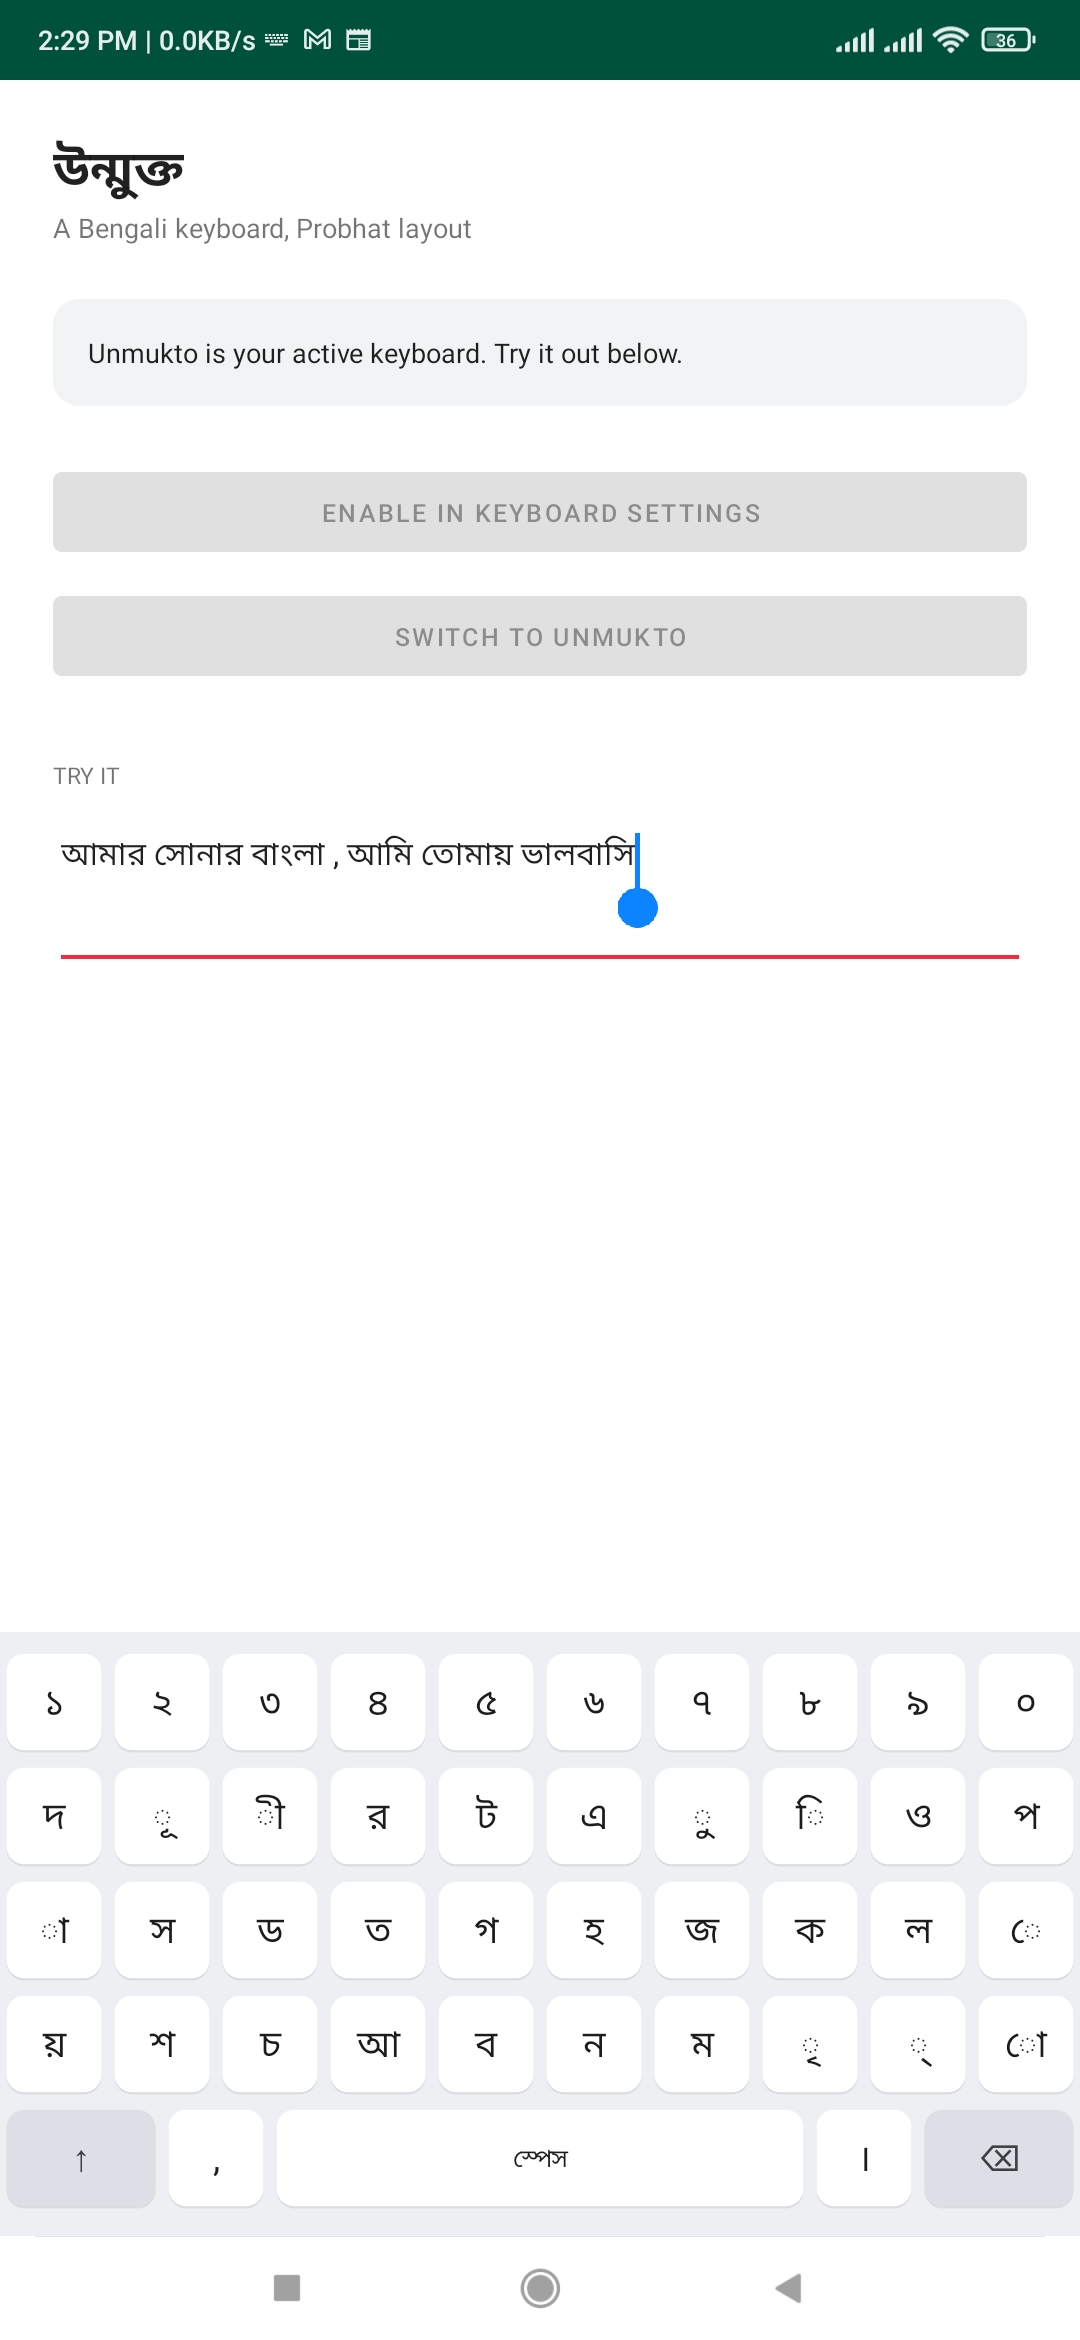
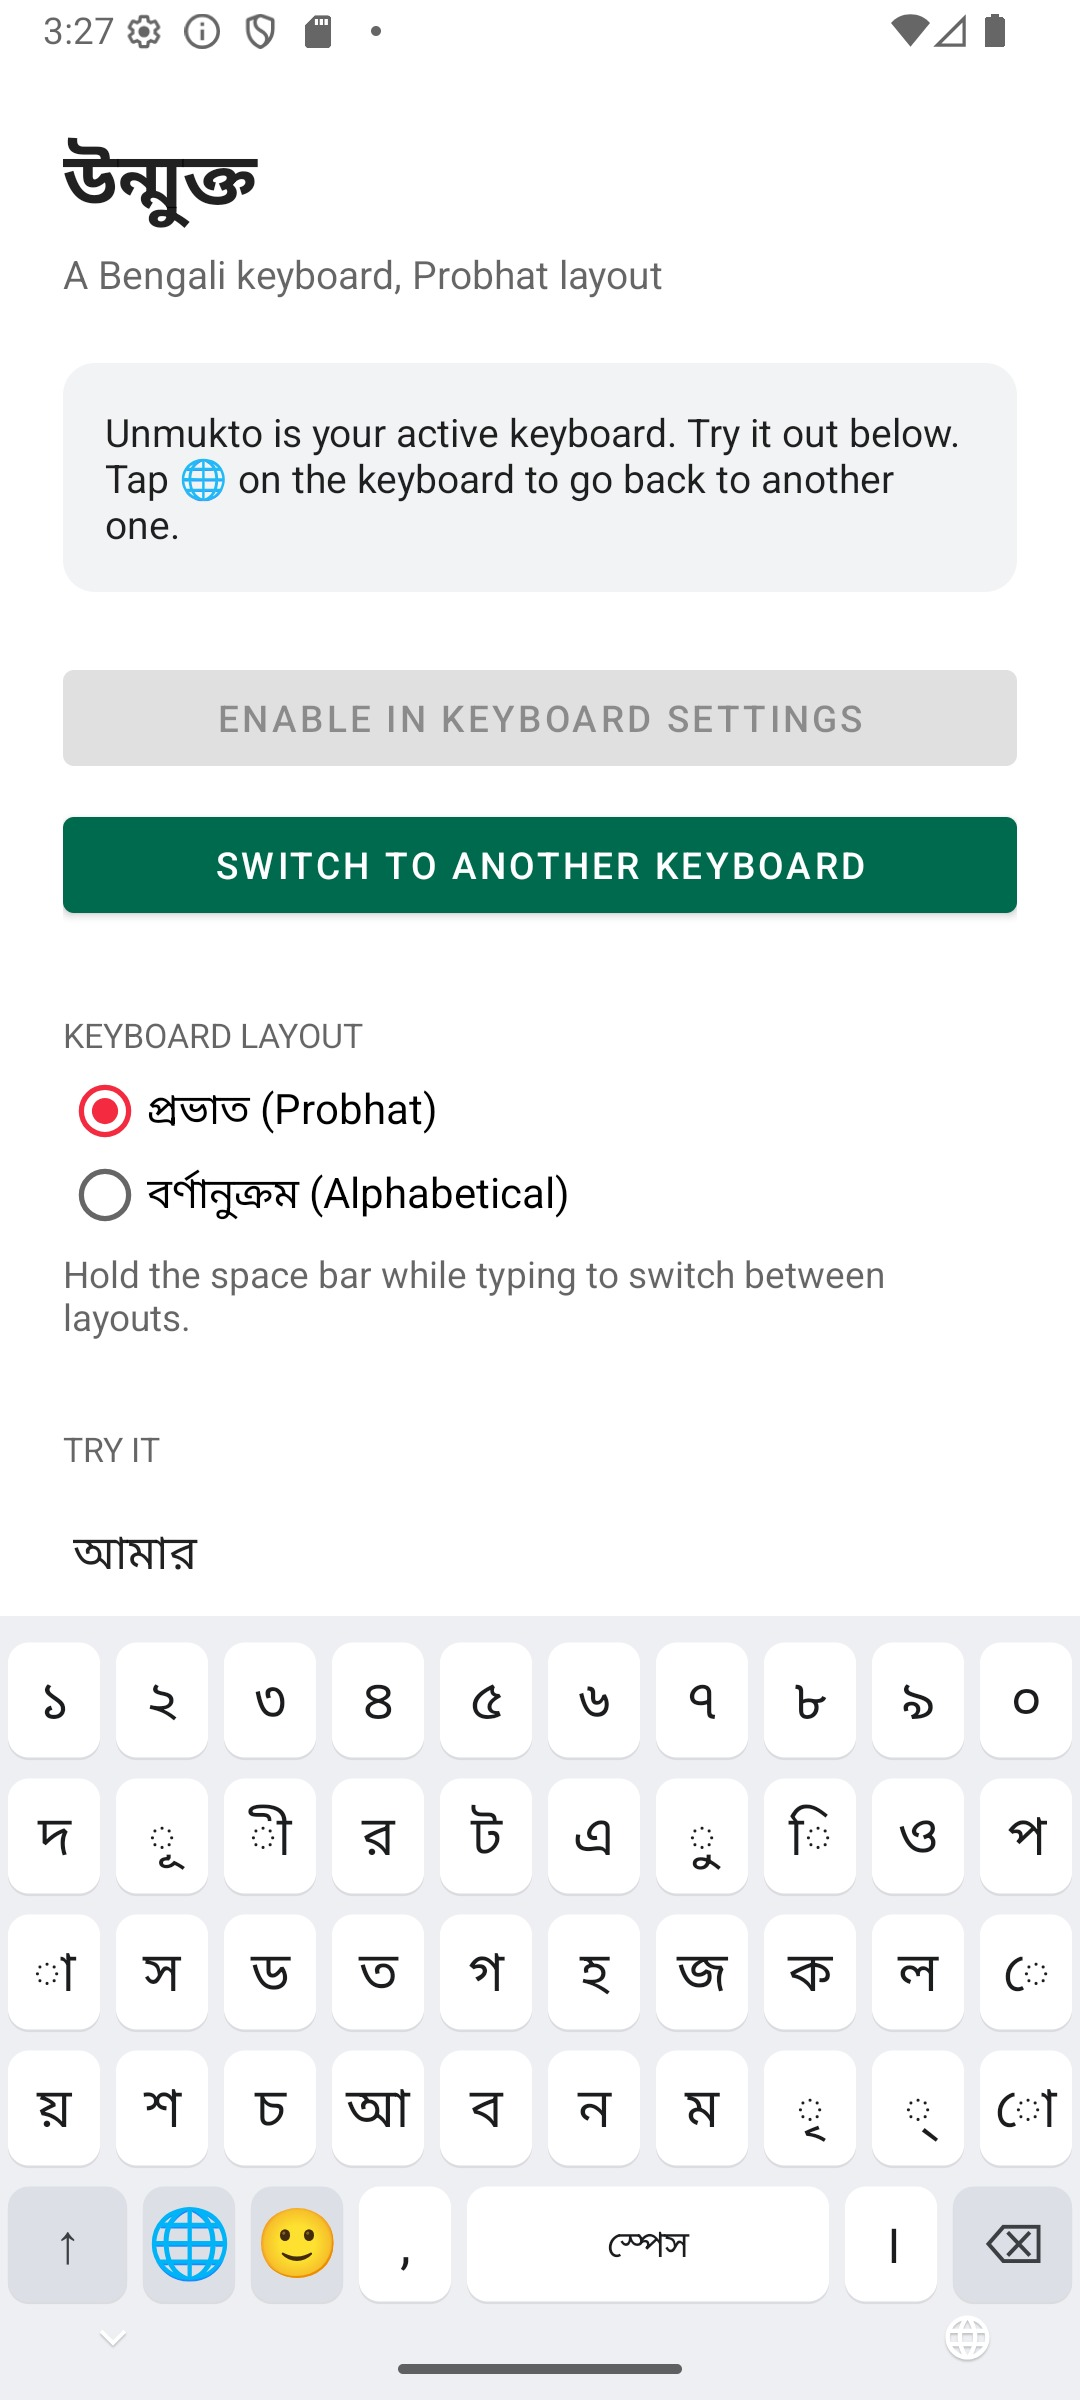
[docs]: refresh the screenshots for 1.5;
The old pair was taken on 2026-07-22, which predates the emoji panel, the
alphabetical layout and the key that switches back out to another
keyboard. They were also taken before the keyboard was told to keep clear
of the navigation bar, so the bottom row in them sits under the home
gesture -- the store was advertising a bug that is now fixed.

Six now, captured on an Android 16 emulator against versionCode 6: both
layouts, the shifted layer, the emoji panel, and two in dark mode. They
are the F-Droid listing as well, which reads this directory.

The README gains the second layout and the emoji panel in its one-line
description, which still said Probhat only.

diff --git a/README.md b/README.md
@@ -5,13 +5,18 @@
 [![Releases](https://img.shields.io/badge/Unmukto-Releases-black.svg?style=for-the-badge&logo=android)](https://github.com/maifeeulasad/unmukto/releases)
 [![License: GPL v3](https://img.shields.io/badge/License-GPLv3-blue.svg?style=for-the-badge)](LICENSE)
 
-Probhat layout, works entirely offline, and declares no Android permissions at all.
+Two Bengali layouts -- Probhat and one in alphabetical order -- plus an emoji panel.
+Works entirely offline, and declares no Android permissions at all.
 
-## Snaps (2026.07.22)
+## Snaps (1.5)
 
-Base layer             |  Shifted layer
-:-------------------------:|:-------------------------:
-![keyboard-1](https://raw.githubusercontent.com/maifeeulasad/unmukto/gh-pages/snaps/Screenshot_2026-07-22-14-29-06-954_com.mua.unmukto.jpg)  |  ![keyboard-2](https://raw.githubusercontent.com/maifeeulasad/unmukto/gh-pages/snaps/Screenshot_2026-07-22-14-29-10-359_com.mua.unmukto.jpg)
+Probhat | Alphabetical | Emoji
+:---:|:---:|:---:
+![probhat](https://raw.githubusercontent.com/maifeeulasad/unmukto/gh-pages/snaps/unmukto-1.5-probhat.jpg) | ![alphabetical](https://raw.githubusercontent.com/maifeeulasad/unmukto/gh-pages/snaps/unmukto-1.5-alphabetical.jpg) | ![emoji](https://raw.githubusercontent.com/maifeeulasad/unmukto/gh-pages/snaps/unmukto-1.5-emoji.jpg)
+
+Shifted layer | Dark | Dark, emoji
+:---:|:---:|:---:
+![shifted](https://raw.githubusercontent.com/maifeeulasad/unmukto/gh-pages/snaps/unmukto-1.5-shifted.jpg) | ![dark](https://raw.githubusercontent.com/maifeeulasad/unmukto/gh-pages/snaps/unmukto-1.5-dark.jpg) | ![dark emoji](https://raw.githubusercontent.com/maifeeulasad/unmukto/gh-pages/snaps/unmukto-1.5-dark-emoji.jpg)
 
 ## Building
 
